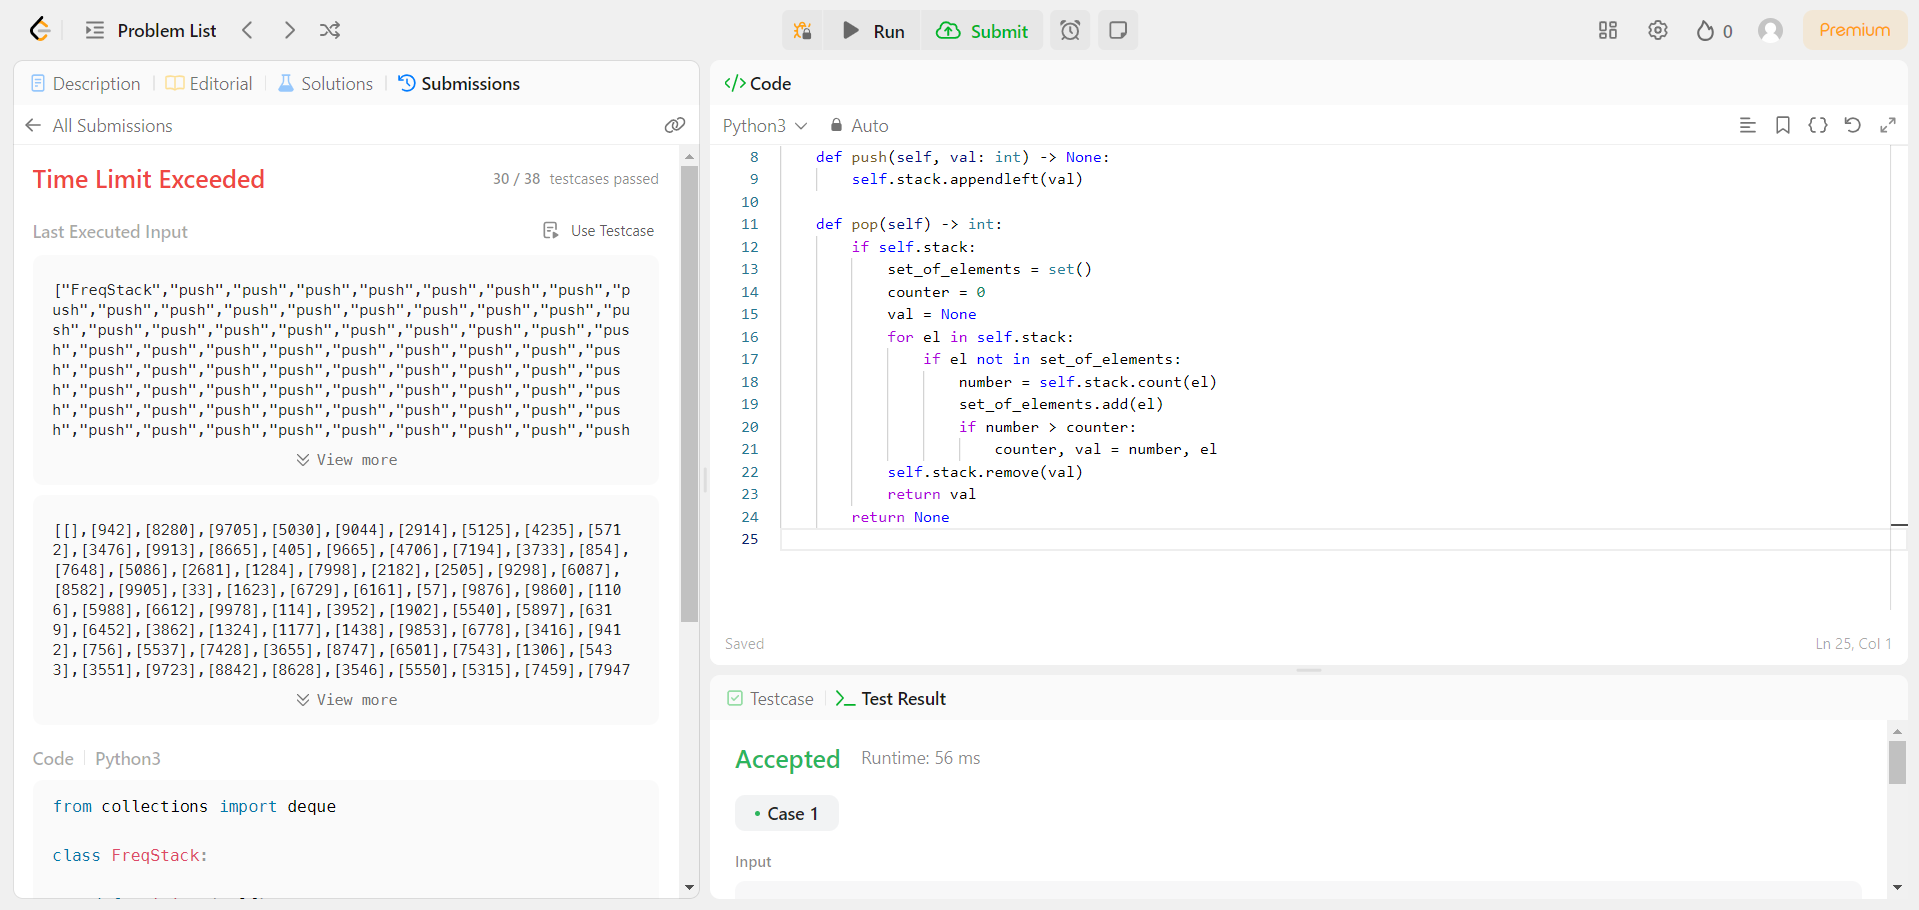
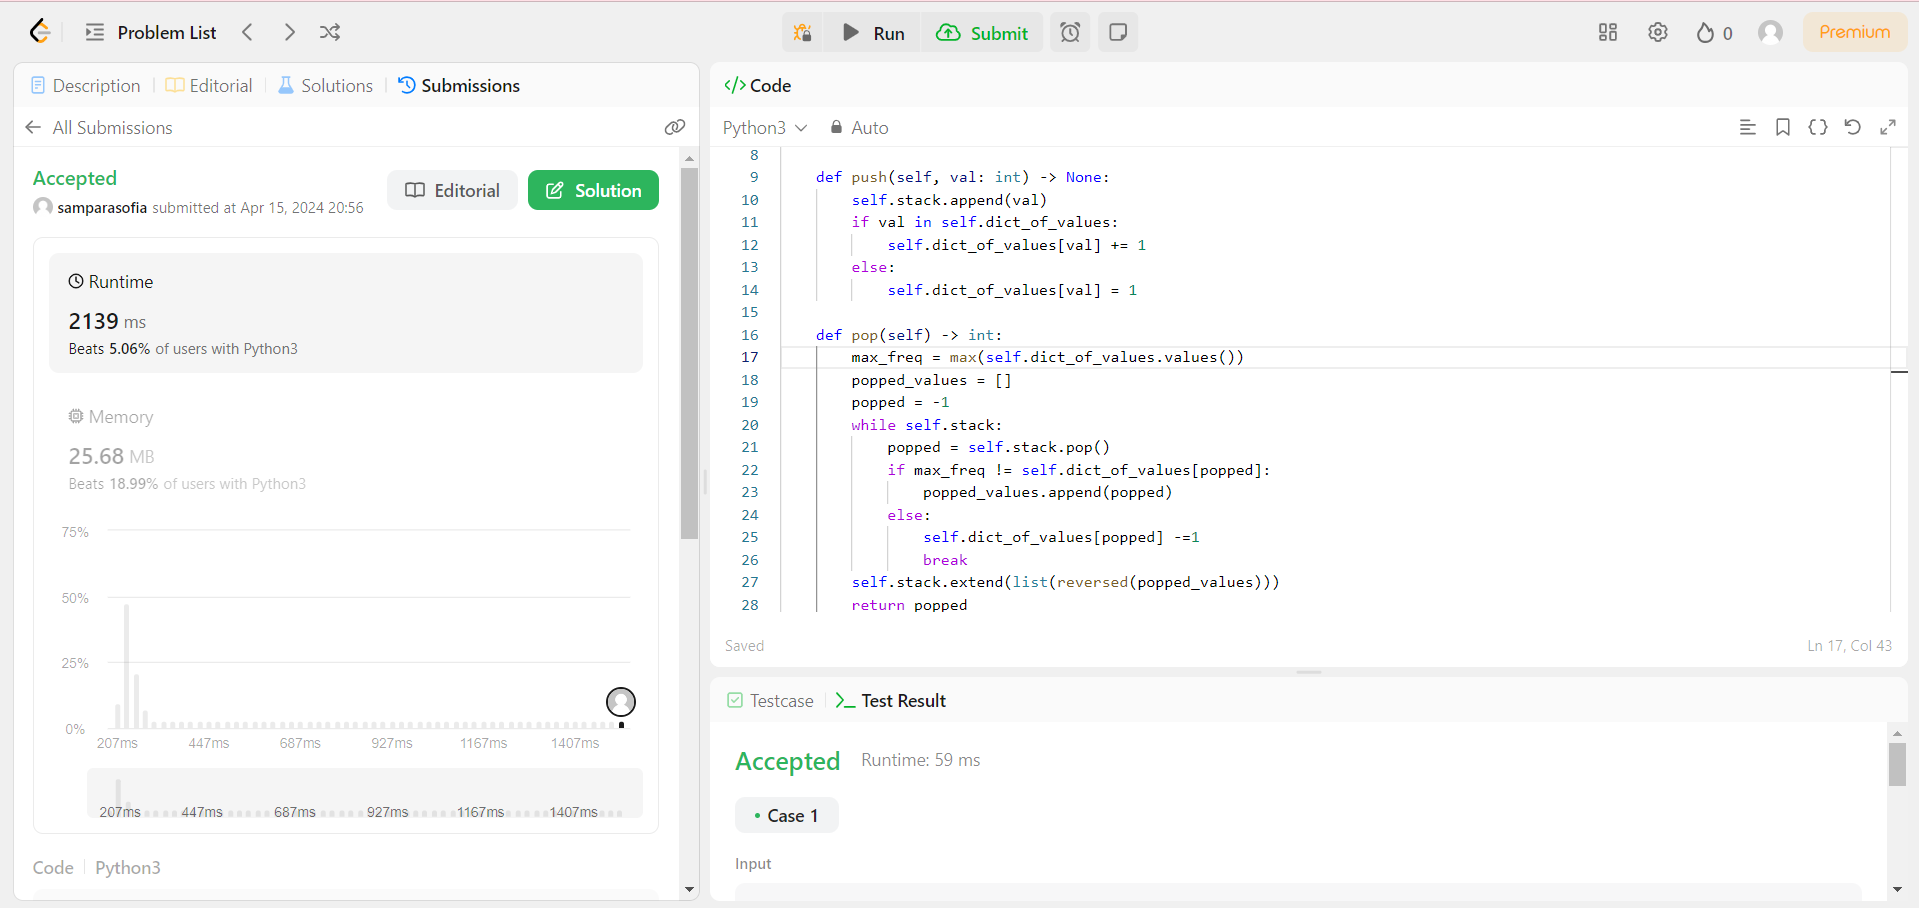
Improved the freq stack task

diff --git a/Maximum Frequency Stack/solution.py b/Maximum Frequency Stack/solution.py
@@ -4,21 +4,25 @@ class FreqStack:
 
     def __init__(self):
         self.stack = deque()
+        self.dict_of_values = {}
 
     def push(self, val: int) -> None:
-        self.stack.appendleft(val)
+        self.stack.append(val)
+        if val in self.dict_of_values:
+            self.dict_of_values[val] += 1
+        else:
+            self.dict_of_values[val] = 1
 
     def pop(self) -> int:
-        if self.stack:
-            set_of_elements = set()
-            counter = 0
-            val = None
-            for el in self.stack:
-                if el not in set_of_elements:
-                    number = self.stack.count(el)
-                    set_of_elements.add(el)
-                    if number > counter:
-                        counter, val = number, el
-            self.stack.remove(val)
-            return val
-        return None
+        max_freq = max(self.dict_of_values.values())
+        popped_values = []
+        popped = -1
+        while self.stack:
+            popped = self.stack.pop()
+            if max_freq != self.dict_of_values[popped]:
+                popped_values.append(popped)
+            else:
+                self.dict_of_values[popped] -=1
+                break
+        self.stack.extend(list(reversed(popped_values)))
+        return popped
